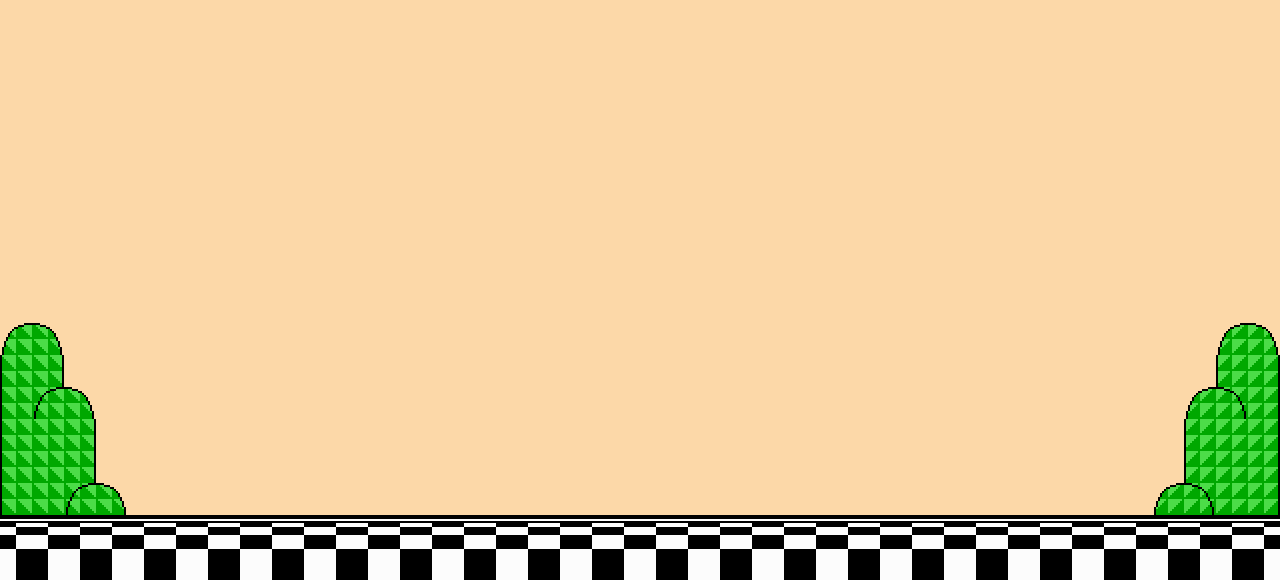
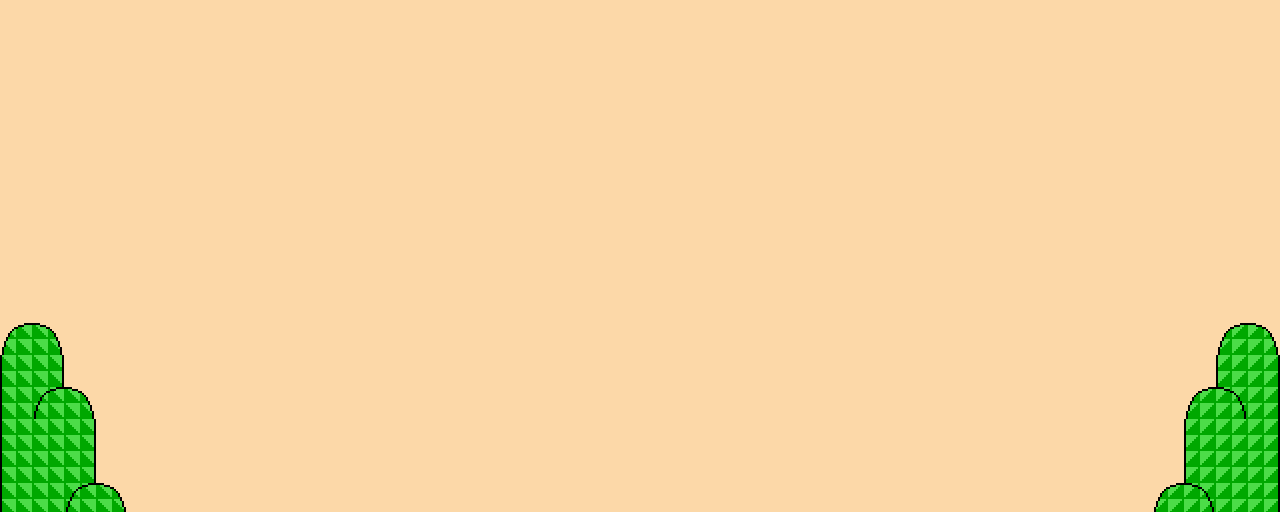
Added Media Queries, fixed events in JS

Changed region(s): [[0.0, 0.5625, 1.0, 1.0]]

diff --git a/assets/css/mediaqueries.css b/assets/css/mediaqueries.css
@@ -1,0 +1,102 @@
+@media only screen and (max-width: 600px) {
+    #calculator {
+      width: 30%;
+    }
+    body{
+        background-color: #FCD8A8;
+    }
+  
+    .buttons {
+      flex-direction: row;
+    }
+  
+    .button {
+      margin: 5px 0;
+    }
+    #counter-container{
+        height: fit-content;
+    }
+  }
+  
+  @media only screen and (max-width: 400px) {
+    #calculator {
+      width: 30%;
+    }
+    body{
+        background-color: bisque;
+    }
+  
+    .buttons {
+      flex-direction: row;
+    }
+  
+    .button {
+      margin: 5px 0;
+    }
+    #counter-container{
+        height: fit-content;
+    }
+  }
+
+  @media only screen and (max-width: 800px) {
+    #calculator {
+      width: 25%;
+    }
+    body{
+        background-color: #FCD8A8;
+    }
+  
+    .buttons {
+      flex-direction: row;
+    }
+  
+    .button {
+      margin: 5px 0;
+    }
+    #counter-container{
+       #counter-container{
+        height: fit-content;
+        
+    } 
+    }
+  }
+  
+  @media only screen and (max-width: 900px) {
+    #calculator {
+      width: 20%;
+    }
+  
+    .buttons {
+      flex-direction: row;
+    }
+  
+    .button {
+      margin: 5px 0;
+    }
+    body{
+        background-color: #FCD8A8;
+    }
+    #counter-container{
+        height: fit-content;
+        width: fit-content;
+    }
+  }
+  @media only screen and (max-width: 700px) {
+    #calculator {
+      width: 28%;
+    }
+  
+    .buttons {
+      flex-direction: row;
+    }
+  
+    .button {
+      margin: 5px 0;
+    }
+    body{
+        background-color: #FCD8A8;
+    }
+    #counter-container{
+        height: 50vh;
+    }
+  }

diff --git a/js/app.js b/js/app.js
@@ -1,24 +1,34 @@
+let screen = document.getElementById("screen");
 let counter = 0;
-const result = document.querySelector("#result");
-const buttonContainer = document.getElementById("button-container");
 
-// addition button
-const addButton = document.createElement('button');
-addButton.textContent = '+';
-addButton.addEventListener('click', function() {
-    counter++;
-    result.innerHTML = counter;
-});
+function updateScreen() {
+    screen.textContent = counter;
+}
 
-//subtraction button - not below 0
-const subtractButton = document.createElement('button');
-subtractButton.textContent = '-';
-subtractButton.addEventListener('click', function() {
-    if (counter > 0) {
-        counter--;
-        result.innerHTML = counter;
+// increment and decrement functions
+function ButtonClick(event) {
+    const buttonValue = event.target.textContent;
+
+    if (buttonValue === '+') {
+        counter++;
+    } else if (buttonValue === '-') {
+        if (counter > 0) {
+            counter--;
+        }
     }
-});
+    updateScreen();
+}
 
-buttonContainer.appendChild(subtractButton);
-buttonContainer.appendChild(addButton);
+let buttonContainer = document.getElementById("button-container");
+buttonContainer.addEventListener("click", ButtonClick);
+
+// Create buttons for increment and decrement
+let incrementButton = document.createElement("button");
+incrementButton.textContent = "+";
+buttonContainer.appendChild(incrementButton);
+
+let decrementButton = document.createElement("button");
+decrementButton.textContent = "-";
+buttonContainer.appendChild(decrementButton);
+
+updateScreen();

diff --git a/assets/css/styles.css b/assets/css/styles.css
@@ -16,17 +16,17 @@ body {
 
 body {
   font-family: 'VT323', monospace;
-  background-image: url(..//img/background.png);
-  background-size: cover;
+  background-color: #FCD8A8;
   font-size: 20px;
   display: flex;
   flex-direction: column;
   align-items: center;
   justify-content: center;
-  
 }
 
 .counter-container {
+  background-image: url(..//img/background.png);
+  background-size:cover;
     height: 100vh;
     width: 100vh;
     display: flex;
@@ -67,16 +67,17 @@ button {
   margin: 0 5px;
   justify-content: center;
   box-shadow: -3px 0 0 0 black, 3px 0 0 0 black, 0 3px 0 0 black,0 3px 0 0 black;
-  
 }
 .button-container{
 margin-bottom: 20px;
 }
 
-/* screen */
+/* screen and result */
 #screen {
   width: 100%;
-  height: 70%;
+  font-size: 100px;
+  text-align: center;
+  height: 100%;
   background-color: #C0C6A1;
   border: 5px outset #171616;
   border-radius: 5px;
@@ -99,20 +100,4 @@ margin-bottom: 20px;
   box-shadow: -7px 0 0 0 black, 7px 0 0 0 black, 0 7px 0 0 black, 0 7px 0 0 black;
 }
 
-/* result */
-span {
-  font-size: 100px;
-  padding: 20px;
-  text-align: center;
-
-}
-span #result{
-  display: flex;
-  align-items: center;
-  justify-content: center;
-
-}
-#result {
-  display: block;
-    align-self: center;
-}
+/* Media Queries */

diff --git a/index.html b/index.html
@@ -5,6 +5,7 @@
     <meta name="viewport" content="width=device-width, initial-scale=1.0">
     <title>Counter</title>
     <link rel="stylesheet" href="assets/css/styles.css">
+    <link rel="stylesheet" href="assets/css/mediaqueries.css">
     <meta property="og:title" content="Counter">
     <link rel="icon" type="image/x-icon" href="assets/img/6134688.png">
 </head>
@@ -13,9 +14,7 @@
     <div class="counter-container">
         <h1>Counter</h1>
         <div id="calculator">
-            <div id="screen">
-                <span id="result">0</span>
-            </div>
+            <div id="screen"></div>
 
            <!-- Red gameboy buttons-->
             <div class="buttons">
@@ -24,9 +23,9 @@
                 <div class="button"></div>
                 <div class="button"></div>
             </div>
-            <!-- Result-->
-            <div class="button-container" id="button-container">
-            </div>
+
+            <!--Result-->
+            <div class="button-container" id="button-container"></div>
         </div>
     </div>
 
